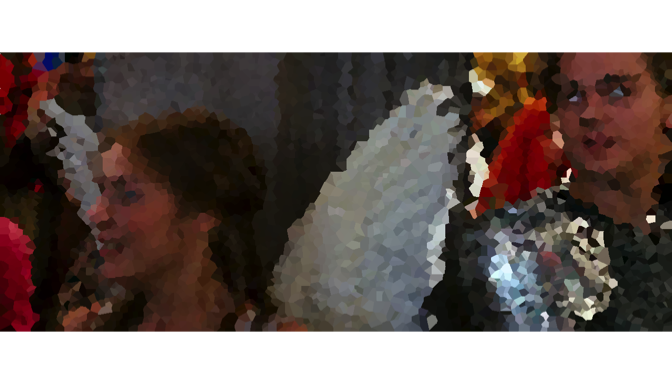
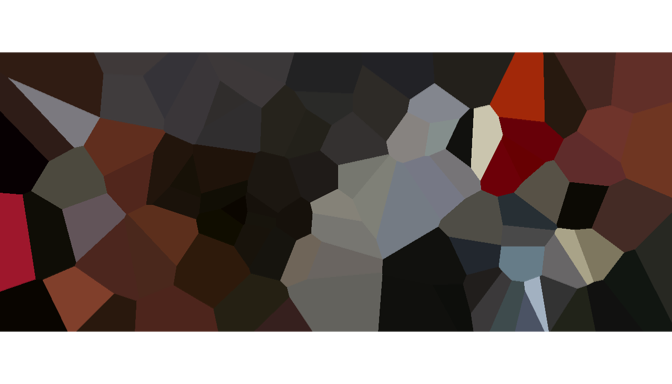
tidy voronoi() return values. adding a voronoiGrob

diff --git a/src/R-voronoi.c b/src/R-voronoi.c
@@ -26,7 +26,7 @@
 // Voronoi Tesselation
 //~~~~~~~~~~~~~~~~~~~~~~~~~~~~~~~~~~~~~~~~~~~~~~~~~~~~~~~~~~~~~~~~~~~~~~~~~~~
 SEXP voronoi_(SEXP x_, SEXP y_, SEXP match_polygons_) {
-
+  
   //~~~~~~~~~~~~~~~~~~~~~~~~~~~~~~~~~~~~~~~~~~~~~~~~~~~~~~~~~~~~~~~~~~~~~~~~~~~
   // Sanity Check
   //~~~~~~~~~~~~~~~~~~~~~~~~~~~~~~~~~~~~~~~~~~~~~~~~~~~~~~~~~~~~~~~~~~~~~~~~~~~
@@ -141,7 +141,7 @@ SEXP voronoi_(SEXP x_, SEXP y_, SEXP match_polygons_) {
   ctx.seg_line = INTEGER(seg_line_);
   ctx.seg_v1   = INTEGER(seg_v1_);
   ctx.seg_v2   = INTEGER(seg_v2_);
-    
+  
   //~~~~~~~~~~~~~~~~~~~~~~~~~~~~~~~~~~~~~~~~~~~~~~~~~~~~~~~~~~~~~~~~~~~~~~~~~~~
   // Calculate voronoi tesselation using Fortune's Sweep algorithm 
   //~~~~~~~~~~~~~~~~~~~~~~~~~~~~~~~~~~~~~~~~~~~~~~~~~~~~~~~~~~~~~~~~~~~~~~~~~~~
@@ -157,6 +157,9 @@ SEXP voronoi_(SEXP x_, SEXP y_, SEXP match_polygons_) {
   bbox_add(&bounds, ctx.nverts, ctx.vert_x, ctx.vert_y);
   bbox_expand(&bounds, 0.10);
   
+  // Rprintf("BBOX: (%.3f, %.3f), (%.3f, %.3f)\n", bounds.xmin, bounds.ymin,
+  //         bounds.xmax, bounds.ymax);
+  
   //~~~~~~~~~~~~~~~~~~~~~~~~~~~~~~~~~~~~~~~~~~~~~~~~~~~~~~~~~~~~~~~~~~~~~~~~~~~
   // Merge vertices in voronoi segments to prep for polygon building
   // void merge_vertices_core_(double tol, 
@@ -166,7 +169,7 @@ SEXP voronoi_(SEXP x_, SEXP y_, SEXP match_polygons_) {
   //                           int verbosity)
   //~~~~~~~~~~~~~~~~~~~~~~~~~~~~~~~~~~~~~~~~~~~~~~~~~~~~~~~~~~~~~~~~~~~~~~~~~~~
   int fnedges = 0; // Final number of edges after merging
-
+  
   //~~~~~~~~~~~~~~~~~~~~~~~~~~~~~~~~~~~~~~~~~~~~~~~~~~~~~~~~~~~~~~~~~~~~~~~~~~
   // Set up the "working area" for the merging of vertices
   //~~~~~~~~~~~~~~~~~~~~~~~~~~~~~~~~~~~~~~~~~~~~~~~~~~~~~~~~~~~~~~~~~~~~~~~~~~
@@ -181,7 +184,7 @@ SEXP voronoi_(SEXP x_, SEXP y_, SEXP match_polygons_) {
   memcpy(v1m  , ctx.seg_v1  , ctx.nsegs * sizeof(int));
   memcpy(v2m  , ctx.seg_v2  , ctx.nsegs * sizeof(int));
   memcpy(linem, ctx.seg_line, ctx.nsegs * sizeof(int));
-
+  
   //~~~~~~~~~~~~~~~~~~~~~~~~~~~~~~~~~~~~~~~~~~~~~~~~~~~~~~~~~~~~~~~~~~~~~~~~~~
   // Merge close vertices which are an artefact of the tessellation
   //~~~~~~~~~~~~~~~~~~~~~~~~~~~~~~~~~~~~~~~~~~~~~~~~~~~~~~~~~~~~~~~~~~~~~~~~~~
@@ -206,7 +209,7 @@ SEXP voronoi_(SEXP x_, SEXP y_, SEXP match_polygons_) {
   calc_space_for_bound_infinite_edges(fnedges, v1m, v2m, &nbverts, &nbsegs);
   
   // Rprintf("DoBounding: fnedges = %i, nbverts = %i,  nbsegs = %i\n", 
-          // fnedges, nbverts, nbsegs);
+  // fnedges, nbverts, nbsegs);
   
   // void bound_infinite_edges(
   //     bbox_t *bounds,
@@ -247,8 +250,6 @@ SEXP voronoi_(SEXP x_, SEXP y_, SEXP match_polygons_) {
   memcpy(xf + ctx.nverts,         xb,    nbverts * sizeof(double));
   memcpy(yf + ctx.nverts,         yb,    nbverts * sizeof(double));
   
-  SEXP exterior_ = PROTECT(create_named_list(2, "x", xf_, "y", yf_)); nprotect++;
-  
   //~~~~~~~~~~~~~~~~~~~~~~~~~~~~~~~~~~~~~~~~~~~~~~~~~~~~~~~~~~~~~~~~~~~~~~~~~~~
   // Append the new exterior segments to the merged vertex list
   //~~~~~~~~~~~~~~~~~~~~~~~~~~~~~~~~~~~~~~~~~~~~~~~~~~~~~~~~~~~~~~~~~~~~~~~~~~~
@@ -258,14 +259,12 @@ SEXP voronoi_(SEXP x_, SEXP y_, SEXP match_polygons_) {
     (linem + fnedges)[i] = -99;
   }
   // memset(linem + fnedges, -99, nbsegs * sizeof(int));
-
+  
   free(xb);
   free(yb);
   free(rv1);
   free(rv2);
   fnedges += nbsegs;
-#else 
-  SEXP exterior_ = R_NilValue;
 #endif
   
   //~~~~~~~~~~~~~~~~~~~~~~~~~~~~~~~~~~~~~~~~~~~~~~~~~~~~~~~~~~~~~~~~~~~~~~~~~~
@@ -324,7 +323,7 @@ SEXP voronoi_(SEXP x_, SEXP y_, SEXP match_polygons_) {
     create_named_list(3, "line", linem_, "v1", v1m_, "v2", v2m_)
   ); nprotect++;
   set_df_attributes(msegs_, fnedges, length(v1m_));
-    
+  
   //~~~~~~~~~~~~~~~~~~~~~~~~~~~~~~~~~~~~~~~~~~~~~~~~~~~~~~~~~~~~~~~~~~~~~~~~~~
   // Vertices:   data.frame(x = ..., y = ...)
   //~~~~~~~~~~~~~~~~~~~~~~~~~~~~~~~~~~~~~~~~~~~~~~~~~~~~~~~~~~~~~~~~~~~~~~~~~~
@@ -332,7 +331,7 @@ SEXP voronoi_(SEXP x_, SEXP y_, SEXP match_polygons_) {
     create_named_list(2, "x", vert_x_, "y", vert_y_)
   ); nprotect++;
   set_df_attributes(vert_, ctx.nverts, max_verts);
-    
+  
   //~~~~~~~~~~~~~~~~~~~~~~~~~~~~~~~~~~~~~~~~~~~~~~~~~~~~~~~~~~~~~~~~~~~~~~~~~~
   // Lines: data.frame(a = ..., b = ..., c = ...)
   //~~~~~~~~~~~~~~~~~~~~~~~~~~~~~~~~~~~~~~~~~~~~~~~~~~~~~~~~~~~~~~~~~~~~~~~~~~
@@ -372,10 +371,21 @@ SEXP voronoi_(SEXP x_, SEXP y_, SEXP match_polygons_) {
   //     extents = list()
   // )
   //~~~~~~~~~~~~~~~~~~~~~~~~~~~~~~~~~~~~~~~~~~~~~~~~~~~~~~~~~~~~~~~~~~~~~~~~~~
+  SEXP sites_ = PROTECT(
+    create_named_list(2, "x", x_, "y", y_)  // original site/seed points  
+  ); nprotect++;
+  
   SEXP res_ = PROTECT(
-    create_named_list(7, "vertex", vert_, "line", line_, "segment", seg_, 
-                      "extents", ext_, "polygons", polys_, "msegments", msegs_,
-                      "exterior", exterior_)
+    create_named_list(
+      7, 
+      "sites"    , sites_,
+      "vertices" , vert_, 
+      "segments" , seg_,
+      "polygons" , polys_, 
+      "lines"    , line_, 
+      "extents"  , ext_, 
+      "msegments", msegs_
+    )
   ); nprotect++;
   setAttrib(res_, R_ClassSymbol, mkString("vor"));
   
@@ -383,7 +393,7 @@ SEXP voronoi_(SEXP x_, SEXP y_, SEXP match_polygons_) {
   // Free all the 'myalloc()' memory
   //~~~~~~~~~~~~~~~~~~~~~~~~~~~~~~~~~~~~~~~~~~~~~~~~~~~~~~~~~~~~~~~~~~~~~~~~~~~
   free_all_myalloc(&ctx);
-
+  
   
   
   //~~~~~~~~~~~~~~~~~~~~~~~~~~~~~~~~~~~~~~~~~~~~~~~~~~~~~~~~~~~~~~~~~~~~~~~~~~~

diff --git a/README.md b/README.md
@@ -45,7 +45,7 @@ dim(rj)
 
 
 set.seed(1)
-N <- 5000
+N <- 100
 x <- (runif(N, 1, ncol(rj))) |> sort() 
 y <- (runif(N, 1, nrow(rj))) 
 
@@ -64,6 +64,43 @@ grid.raster(nr)
 ```
 
 <img src="man/figures/README-romeo-1.png" width="100%" />
+
+``` r
+grob <- voronoiGrob(vor)
+# grob$vp <- viewport(default.units = 'snpc', width = 1/1270, height = 1/1270)
+grob$vp <- viewport(default.units = 'points', width = 1270, height = 670)
+grid.newpage()
+grid.draw(grob)
+```
+
+<img src="man/figures/README-unnamed-chunk-2-1.png" width="100%" />
+
+## Voronoi Terminolog
+
+- Initial **sites** (i.e. seed points)
+- Fortune’s algorithm returns
+  - **vertices**
+  - **segments** (finite, semi-finite and infinite)
+- This package reconstructs **polygons** (i.e. *voronoi cells*) by
+  assembling the *segments* into polygons, and bounding any exterior
+  *cells* by intersecting with a rectangular boundary
+
+## Voronoi Tessellation feature comparison
+
+| Package                   | rvoronoi | deldir | RTriangle |
+|---------------------------|----------|--------|-----------|
+| segments                  | Yes      |        |           |
+| interior polygons         | Yes      |        |           |
+| bounded exterior polygons | Yes      |        |           |
+| matched sites/polygons    | Yes      |        |           |
+| vertices                  | Yes      |        |           |
+
+## Delaunay Triangulation feature comparison
+
+| Package                          | rvoronoi | deldir | RTriangle |
+|----------------------------------|----------|--------|-----------|
+| site indices (defining polygons) | Yes      |        |           |
+| polygon coordinates              | Yes      |        |           |
 
 ## Voronoi Tesselation
 
@@ -201,11 +238,11 @@ bench::mark(
 )[,1:5]  |> knitr::kable()
 ```
 
-| expression |     min |  median |    itr/sec | mem_alloc |
-|:-----------|--------:|--------:|-----------:|----------:|
-| rvoronoi   | 393.5µs | 419.9µs | 2371.91832 |  139.56KB |
-| rtriangle  | 723.2µs | 787.2µs | 1242.62215 |  292.63KB |
-| deldir     |  16.8ms |  16.9ms |   58.70806 |    5.67MB |
+| expression |     min | median |    itr/sec | mem_alloc |
+|:-----------|--------:|-------:|-----------:|----------:|
+| rvoronoi   | 389.5µs |  407µs | 2434.48177 |  139.56KB |
+| rtriangle  | 728.7µs |  759µs | 1296.48296 |  292.63KB |
+| deldir     |  16.8ms |   17ms |   58.67374 |    5.67MB |
 
 # Voronoi Tesselation Benchmark
 
@@ -274,9 +311,9 @@ bench::mark(
 
 | expression | min | median | itr/sec | mem_alloc |
 |:---|---:|---:|---:|---:|
-| voronoi(x, y) | 3.38ms | 3.45ms | 287.813316 | 235KB |
-| cvt(deldir(x, y), stopcrit = “maxit”, maxit = 1) | 157.6ms | 160.67ms | 6.113305 | 52.1MB |
-| triangulate(pslg(P = cbind(x, y))) | 728.2µs | 758.5µs | 1229.584350 | 292.6KB |
+| voronoi(x, y) | 3.38ms | 3.47ms | 283.631339 | 235KB |
+| cvt(deldir(x, y), stopcrit = “maxit”, maxit = 1) | 160.11ms | 162.09ms | 6.087512 | 52.1MB |
+| triangulate(pslg(P = cbind(x, y))) | 720.33µs | 756.7µs | 1160.784557 | 292.6KB |
 
 # Pathological Test Cases
 
